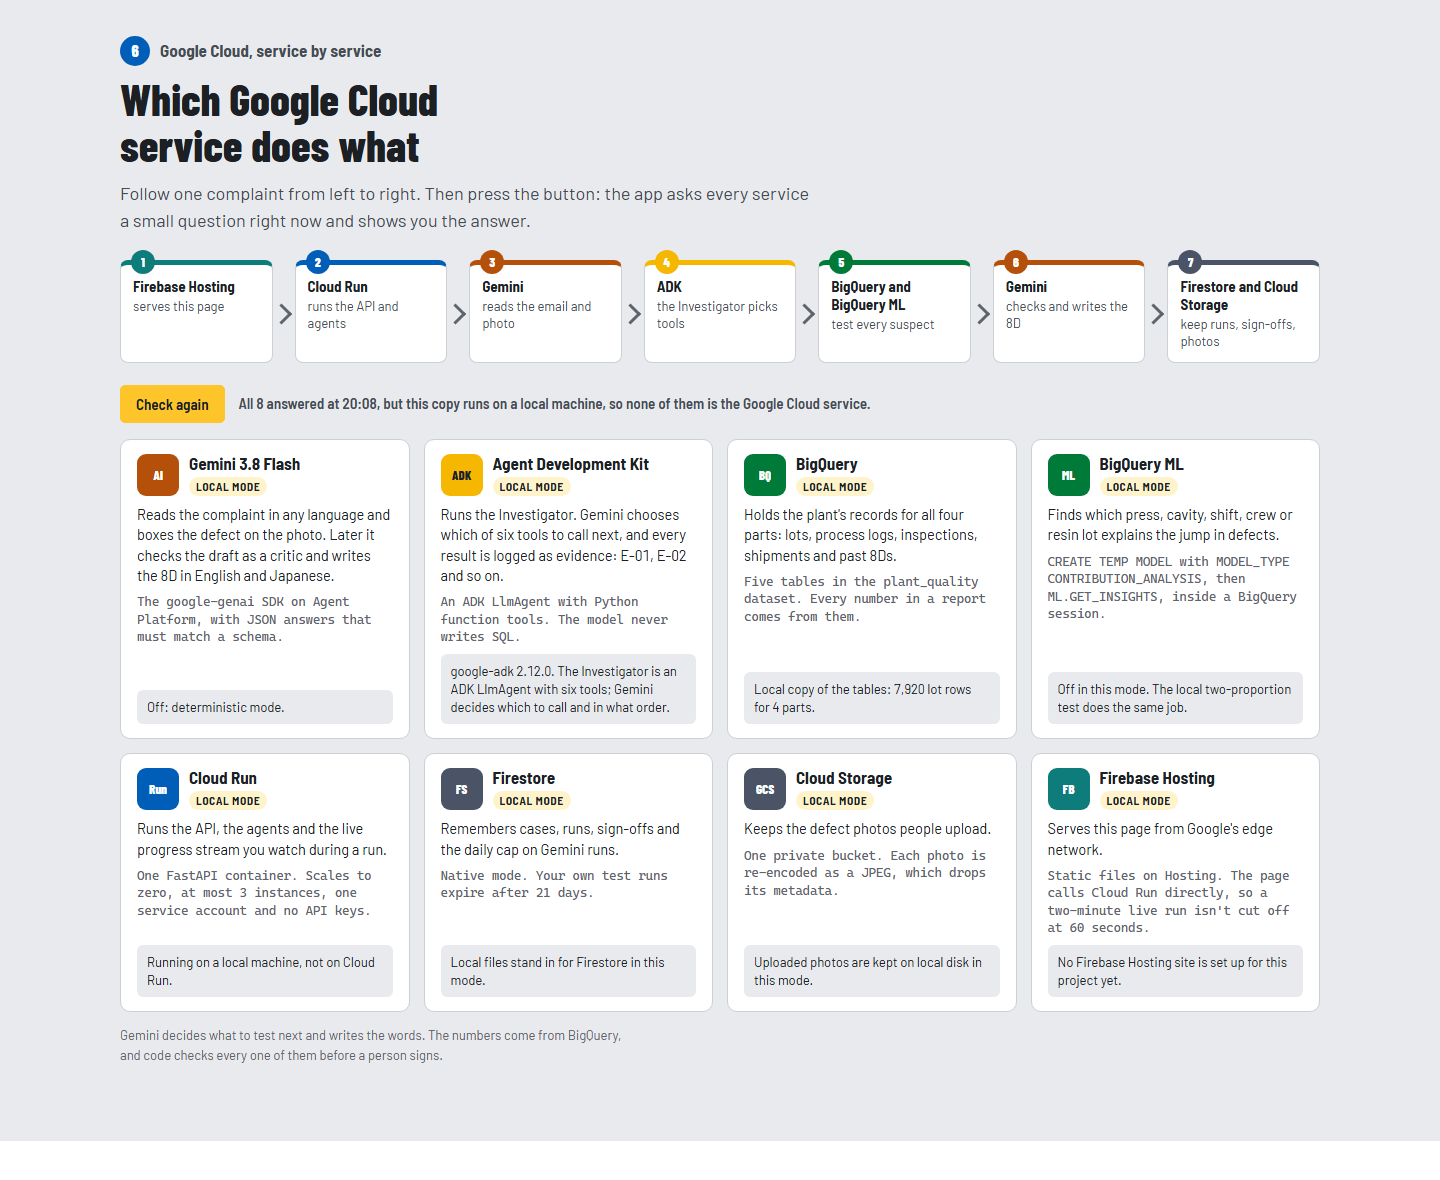
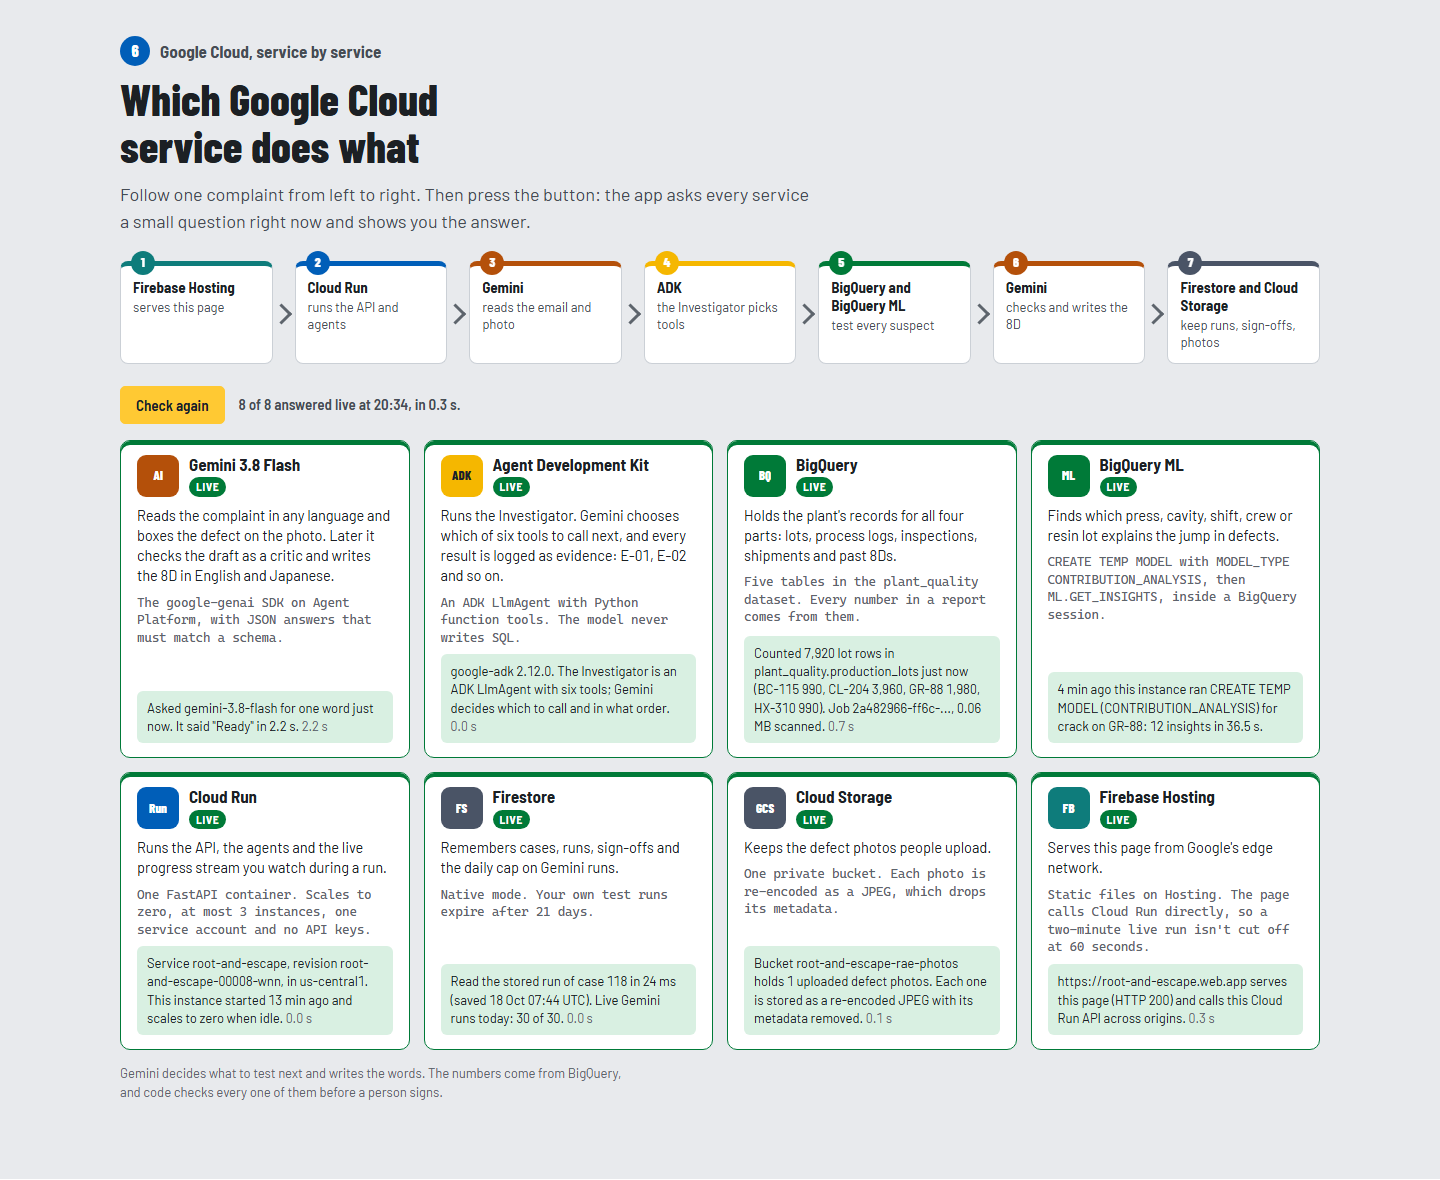
Warm the seed cases one at a time, and retry the Firebase upload
Six warm-up runs at once on a fresh revision left four cases without a Gemini
run. They now run one at a time, and a case that already has a stored Gemini
run keeps it. firebase.sh tries the Hosting upload up to three times. The
README shows the live service check with all eight services answering.

diff --git a/rae/main.py b/rae/main.py
@@ -697,9 +697,10 @@ def _check_firestore() -> dict:
 def _check_storage() -> dict:
     if not settings.gcp:
         return {"live": False, "proof": "Uploaded photos are kept on local disk in this mode."}
-    blobs = list(get_store().bucket.list_blobs(prefix="photos/", max_results=200))
-    return {"live": True, "proof": f"Bucket {settings.bucket} holds {len(blobs)}{'+' if len(blobs) == 200 else ''} "
-                                   "uploaded defect photos. Each one is stored as a re-encoded JPEG with its metadata removed."}
+    n = len(list(get_store().bucket.list_blobs(prefix="photos/", max_results=200)))
+    count = f"{n}{'+' if n == 200 else ''} uploaded defect photo{'' if n == 1 else 's'}"
+    return {"live": True, "proof": f"Bucket {settings.bucket} holds {count}. Each one is stored as a re-encoded JPEG "
+                                   "with its metadata removed."}
 
 
 def _check_adk() -> dict:

diff --git a/README.md b/README.md
@@ -311,6 +311,8 @@ erDiagram
 | Cloud Storage | Uploaded defect photos, re-encoded with their metadata stripped |
 | Firebase Hosting | A second copy of the page at `https://<project>.web.app`, from Google's CDN. It calls the Cloud Run API across origins; nothing else changes |
 
+![The live service check: all eight services answered, each with its proof](docs/media/gcp.png)
+
 To check that each one is really in use, press **Check every service now** on the overview page, or call `GET /api/stack`. The app asks each service a small question and prints the answer: a row count from `production_lots` with the BigQuery job ID and bytes scanned, the last BigQuery ML contribution analysis this instance ran, a Firestore read of a stored run, a listing of the photo bucket, a one-word answer from Gemini, the Cloud Run service and revision, and the Firebase Hosting copy of the page. The answer is cached for a minute. `scripts/verify_cloud.sh` runs the same check.
 
 ## Gen AI design
